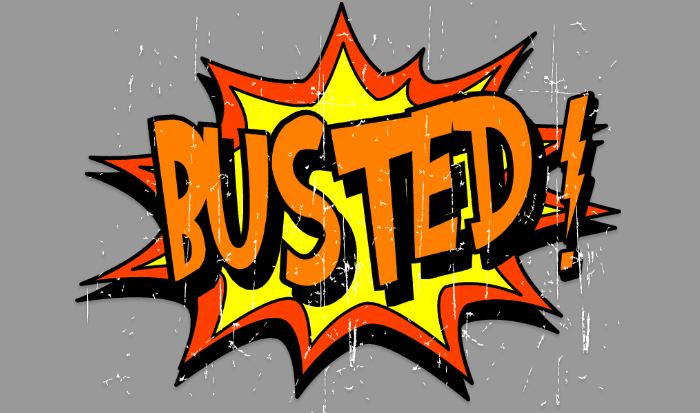
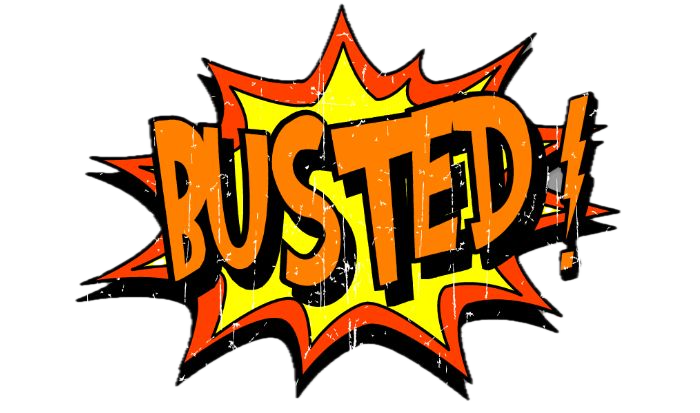
Improved Busted functionality
Changed button to image

diff --git a/components/Popup.js b/components/Popup.js
@@ -164,8 +164,9 @@ const PopupNumber = ({variable, setVariable, hidden, style, text_style, setCombo
       </TouchableOpacity>
       <Modal isVisible={isModalVisible}>
         <View style={{flex: 1, alignItems:"center", justifyContent:"center", top:"5%"}}>
-          <ControlButton title = "Busted!" style = {{height:"10%", width:"60%", borderRadius:10, borderWidth:5, backgroundColor:"#bfbfbf", justifyContent:"center", bottom:"20%"}} text_style = {{color:"black", fontSize:50}} onPress = {() => {updateElement(setCombo, index, "bao")}}></ControlButton>
-          <Text center bold style = {{color:"white", bottom:"15%", fontSize:80}}>OR</Text>
+          {/* <ControlButton title = "Busted!" style = {{height:"10%", width:"60%", borderRadius:10, borderWidth:5, backgroundColor:"#bfbfbf", justifyContent:"center", bottom:"20%"}} text_style = {{color:"black", fontSize:50}} onPress = {() => {updateElement(setCombo, index, "bao")}}></ControlButton> */}
+          <TouchableImage setArray = {setCombo} index = {index} value = "bao" source = {require('../assets/bao.png')} style = {{height:200, width:200, bottom:'15%'}}></TouchableImage>
+          <Text center bold style = {{color:"white", bottom:"20%", fontSize:80}}>OR</Text>
           <UserInput
             text = {hidden} 
             value = {variable} 
@@ -180,10 +181,10 @@ const PopupNumber = ({variable, setVariable, hidden, style, text_style, setCombo
                 position:"absolute",
                 backgroundColor:"#004d00",
                 borderRadius:24,
-                marginVertical:-40,
-                alignItems:"center"
+                alignItems:"center",
+                bottom:"100%"
             }}
-            text_style ={{fontSize:40, color:"#ffffff", fontWeight:"bold", width:1000, bottom:"200%", right:"30%"}}
+            text_style ={{fontSize:40, color:"#ffffff", fontWeight:"bold", width:1000, bottom:"350%", right:"30%"}}
             overallStyle = {{ marginHorizontal: 24, width: 200}}
             textAlign = "center"
             keyboardType= "number-pad"
